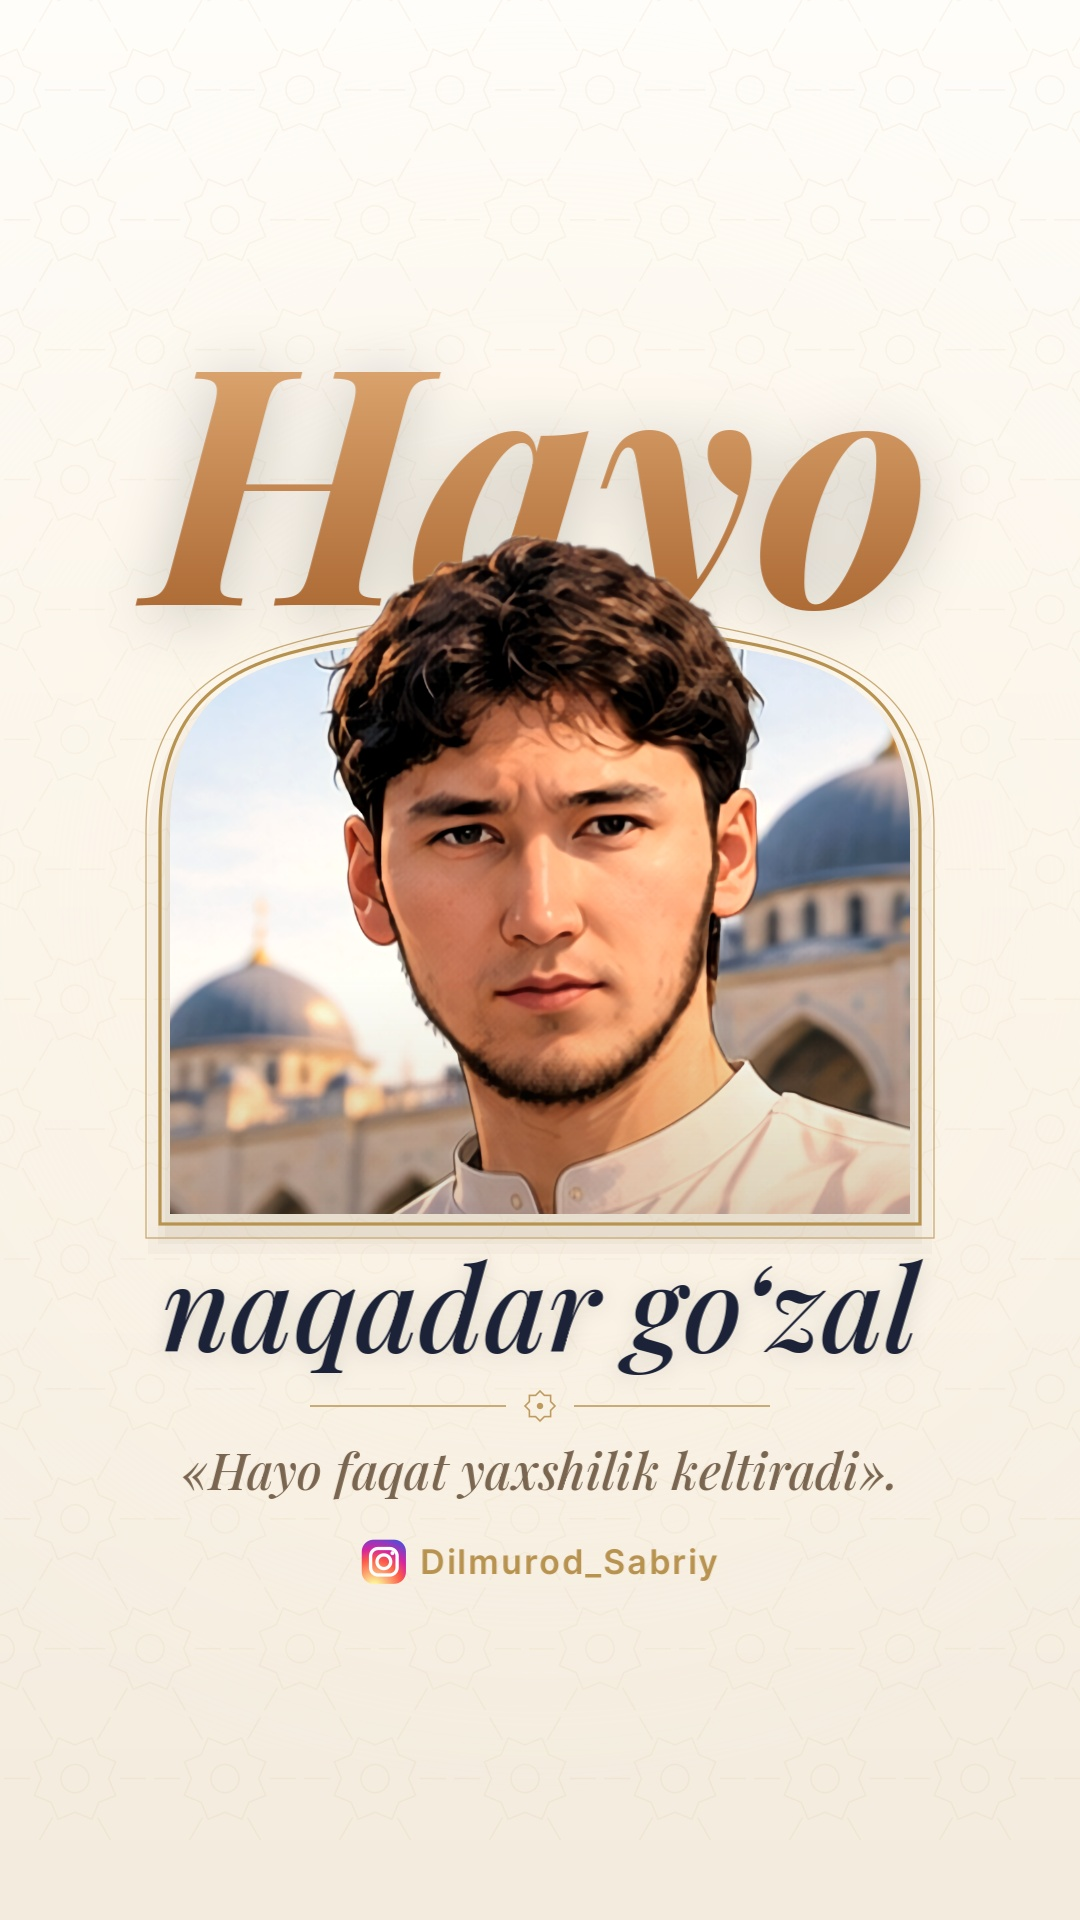
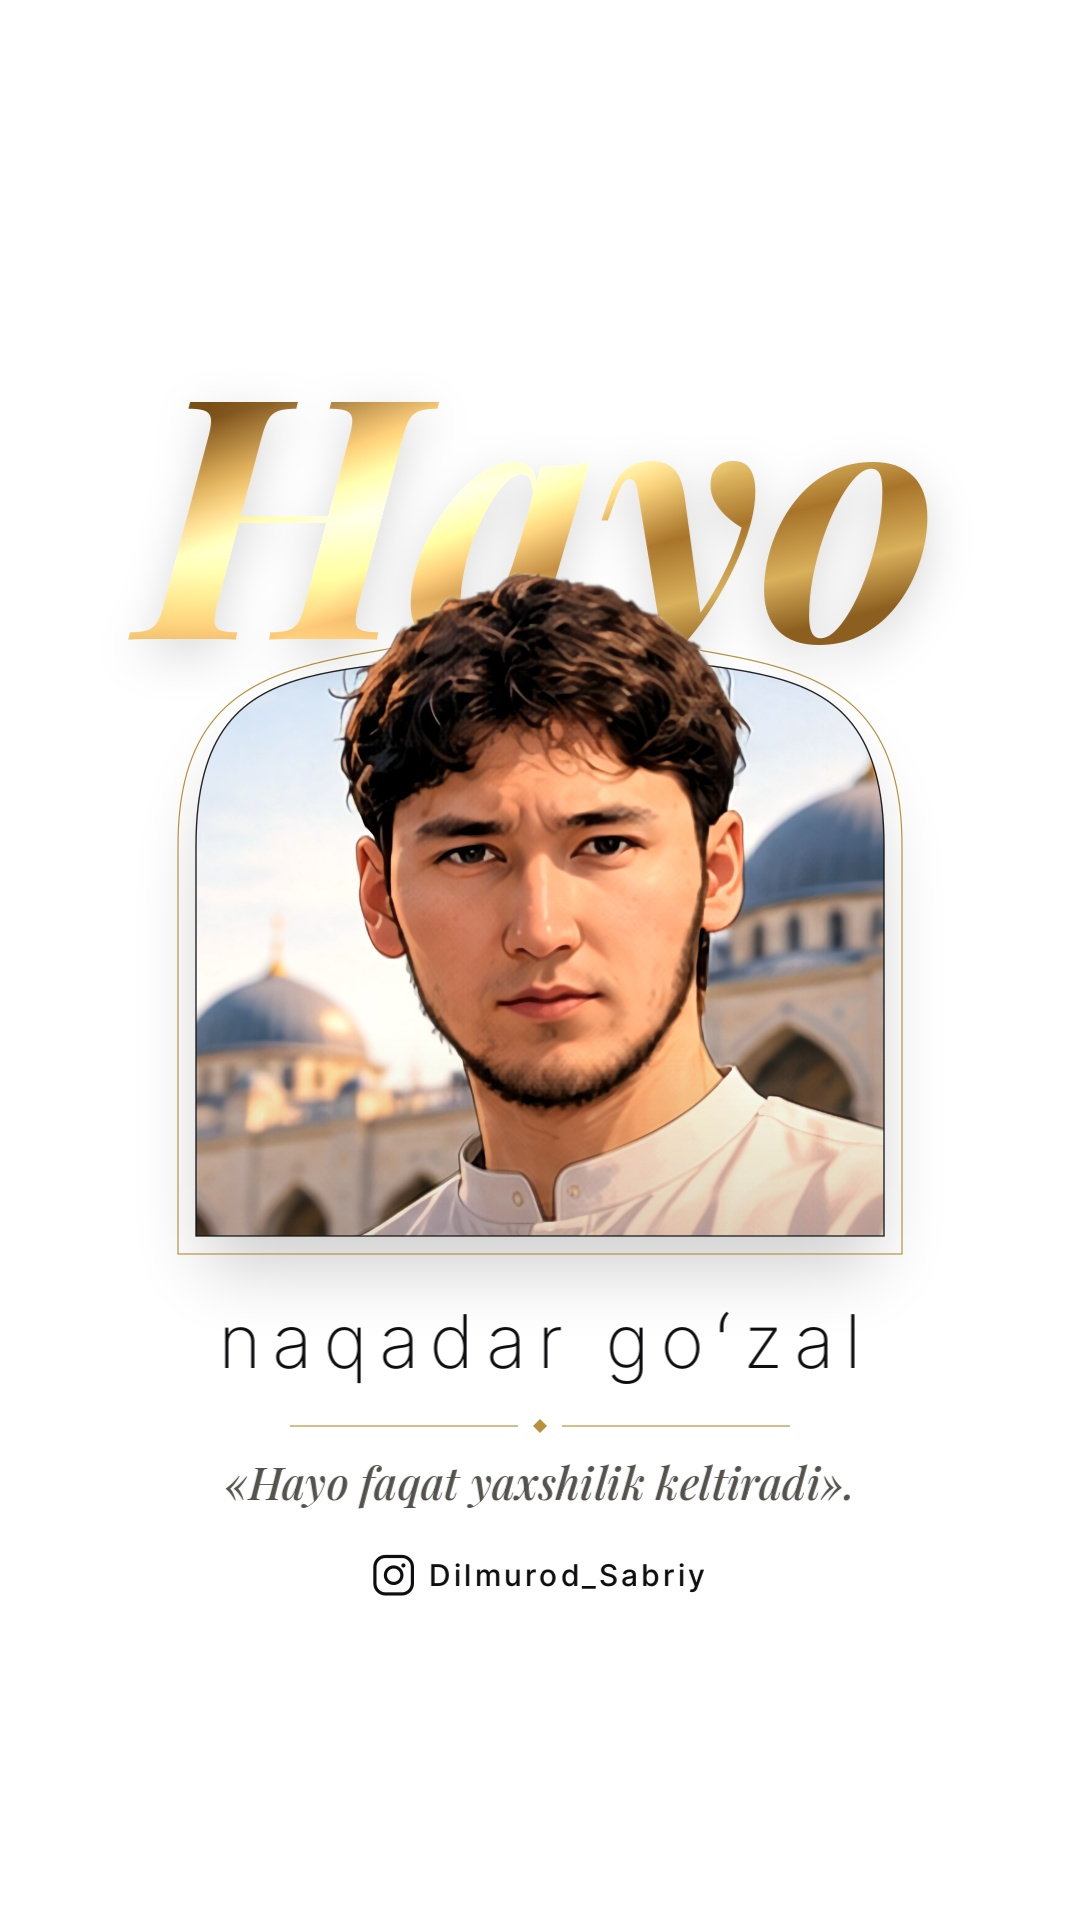
Cover: sof oq fon, zamonaviy-luxury uslub (oltin foil sarlavha)
Claude-Session: https://claude.ai/code/session_018LrpBgy8Hvn4QmYzaXwYNb

diff --git a/projects/hayo_cover.py b/projects/hayo_cover.py
@@ -1,11 +1,12 @@
 """
-"Hayo naqadar goʻzal" — Reels uchun oq (fil suyagi) fonli cover, 1080×1920.
+"Hayo naqadar goʻzal" — Reels uchun toza OQ fonli, zamonaviy-luxury cover, 1080×1920.
 
     python3 projects/hayo_cover.py            # -> output/hayo_naqadar_gozal_cover.png/.jpg
 
-Kompozitsiya: oq fon + och oltin naqsh; mehrob ravog'i ichida portret, boshi ravoqdan
-chiqib turadi; ulkan "Hayo" so'zi boshi ORTIDA (video hook'i bilan bir uslub).
-Muhim qismlar markaziy 1080×1440 (profil to'ri 3:4 kesimi) ichida: y 240..1680.
+Uslub: sof oq (#ffffff) fon, ko'p bo'sh joy; oltin varaq (foil) effektli ulkan "Hayo"
+portretning boshi ORTIDA; ingichka qora/oltin chiziqlar; keng harf oralig'idagi yupqa
+sans-serif + yuqori kontrastli serif. Muhim qismlar markaziy 1080×1440 (profil to'ri 3:4
+kesimi) ichida: y 240..1680.
 """
 import math
 import os
@@ -20,98 +21,138 @@ sys.path.insert(0, ROOT)
 import render as R  # noqa: E402
 
 P = R.load_project(os.path.join(HERE, "hayo_naqadar_gozal.py"))
-from render import (W, H, hx, text, tw, add_glow, glow, arch_path, instagram_icon,  # noqa: E402
-                    paint_pic, Pic, HANDLE)
+from render import (W, H, hx, text, tw, sprite, arch_path, paint_pic, round_rect,  # noqa: E402
+                    draw_sprite, HANDLE, BLACK)
 
-IVORY_T, IVORY_B = hx("#fffdf9"), hx("#f3ebdd")
-INK = hx("#1c2238")
-WARM_GRAY = hx("#7a6650")
-GOLD_DK = (hx("#d9b46a"), hx("#94692a"))       # readable gold on white
-GOLD_LINE = hx("#b8924f")
-HAYO_G = (hx("#e7b27c"), hx("#a8642f"))         # warm gold-blush for the big word
+INK = hx("#0e0e10")
+GRAY = hx("#55524d")
+GOLD_HAIR = hx("#b8913f")
+FOIL = ((0.00, "#7a4f16"), (0.18, "#c99a45"), (0.38, "#f7e3a3"), (0.50, "#e2bb65"),
+        (0.66, "#a8742a"), (0.84, "#d9b05c"), (1.00, "#8c5e1f"))
 
-ARCH = (170, 910, 830, 606, 1214)  # x0, x1, spring, apex, bottom
+ARCH = (196, 884, 846, 628, 1236)  # x0, x1, spring, apex, bottom
+
+
+def foil_text(ctx, s, fkey, size, cx, baseline, shadow=True):
+    """Text filled with a metallic gold-foil gradient (sprite used as a mask)."""
+    sp = sprite(s, fkey, size, (1, 1, 1, 1))
+    ox = cx - sp.w / 2
+    x0, y0 = ox - sp.pad, baseline - sp.asc - sp.pad
+    if shadow:
+        sh = sprite(s, fkey, size, BLACK, 0.0, None, 22)
+        draw_sprite(ctx, sh, cx, baseline + 14, 0.16, 1.0, "c")
+    top = baseline - sp.asc * 0.80
+    g = cairo.LinearGradient(cx - 40, top, cx + 40, baseline + sp.desc * 0.5)
+    for off, c in FOIL:
+        g.add_color_stop_rgba(off, *hx(c)[:3], 1)
+    ctx.set_source(g)
+    ctx.mask_surface(sp.surf, x0, y0)
+    # fine specular sweep across the letters
+    g2 = cairo.LinearGradient(ox + sp.w * 0.15, top, ox + sp.w * 0.55, baseline)
+    g2.add_color_stop_rgba(0.0, 1, 1, 1, 0)
+    g2.add_color_stop_rgba(0.5, 1, 0.98, 0.9, 0.35)
+    g2.add_color_stop_rgba(1.0, 1, 1, 1, 0)
+    ctx.save()
+    ctx.set_operator(cairo.OPERATOR_ADD)
+    ctx.set_source(g2)
+    ctx.mask_surface(sp.surf, x0, y0)
+    ctx.restore()
+
+
+def ig_mono(ctx, cx, cy, s, color=INK):
+    """Monochrome Instagram glyph (luxury, single colour)."""
+    x0, y0 = cx - s / 2, cy - s / 2
+    ctx.set_source_rgba(*color[:3], 1)
+    ctx.set_line_width(s * 0.085)
+    round_rect(ctx, x0, y0, s, s, s * 0.28)
+    ctx.stroke()
+    ctx.arc(cx, cy, s * 0.22, 0, 2 * math.pi)
+    ctx.stroke()
+    ctx.arc(x0 + s * 0.76, y0 + s * 0.24, s * 0.055, 0, 2 * math.pi)
+    ctx.fill()
+
+
+def diamond(ctx, x, y, r):
+    ctx.move_to(x, y - r)
+    ctx.line_to(x + r, y)
+    ctx.line_to(x, y + r)
+    ctx.line_to(x - r, y)
+    ctx.close_path()
 
 
 def main():
     surf = cairo.ImageSurface(cairo.FORMAT_ARGB32, W, H)
     ctx = cairo.Context(surf)
-    # background -------------------------------------------------------------
-    g = cairo.LinearGradient(0, 0, 0, H)
-    g.add_color_stop_rgba(0, *IVORY_T)
-    g.add_color_stop_rgba(1, *IVORY_B)
-    ctx.set_source(g)
+    ctx.set_source_rgba(1, 1, 1, 1)
     ctx.paint()
-    lat = P.lattice_surface(color=hx("#c9a86a"), step=150, R_=44)
-    ctx.set_source_surface(lat, -75, -40)
-    ctx.paint_with_alpha(0.10)
-    glow(ctx, 540, 900, 900, hx("#fff4e2"), 0.9)
     x0, x1, sp, ap, bt = ARCH
-    # soft shadow under the arch
-    for k, a in ((22, 0.03), (12, 0.04), (5, 0.05)):
-        ctx.save()
-        ctx.translate(0, 18)
-        arch_path(ctx, x0 - k, x1 + k, sp, ap - k, bt + k)
-        ctx.set_source_rgba(0.35, 0.25, 0.12, a)
-        ctx.fill()
-        ctx.restore()
-    # portrait inside the arch ----------------------------------------------
+    # floating-card shadow: blurred arch silhouette (neutral grey)
+    from PIL import Image, ImageFilter
+    ms = cairo.ImageSurface(cairo.FORMAT_A8, W, H)
+    mc = cairo.Context(ms)
+    arch_path(mc, x0 + 10, x1 - 10, sp + 20, ap + 20, bt)
+    mc.fill()
+    ms.flush()
+    st = ms.get_stride()
+    m = np.ndarray((H, st), np.uint8, ms.get_data())[:, :W].copy()
+    m = np.asarray(Image.fromarray(m).filter(ImageFilter.GaussianBlur(34)))
+    shade = R.Pic(np.zeros((H, W, 3), np.uint8), (m * 0.20).astype(np.uint8))
+    paint_pic(ctx, shade, 1.0, 0, 30)
+    # portrait inside the arch
     pic, cut = P.G["p0x"], P.G["p0cut"]
-    s = 0.66
+    s = 0.62
     eyes = (1110, 480 + P.EXT0)
-    tx, ty = 540 - eyes[0] * s, 826 - eyes[1] * s
+    tx, ty = 540 - eyes[0] * s, 846 - eyes[1] * s
     ctx.save()
     arch_path(ctx, x0, x1, sp, ap, bt)
     ctx.clip()
     paint_pic(ctx, pic, s, tx, ty)
-    R.vgrad(ctx, bt - 240, bt, 0, 0.18, hx("#3a2a14"))
+    R.vgrad(ctx, bt - 200, bt, 0, 0.12, (0, 0, 0))
     ctx.restore()
-    # gold arch outline (double) + finial star
-    for grow, wdt, a in ((10, 3.2, 1.0), (24, 1.3, 0.75)):
-        arch_path(ctx, x0 - grow, x1 + grow, sp, ap - grow, bt + grow)
-        ctx.set_source_rgba(*GOLD_LINE[:3], a)
-        ctx.set_line_width(wdt)
-        ctx.stroke()
-    # giant "Hayo" behind the head -------------------------------------------
-    text(ctx, "Hayo", "serif_it_b", 330, hx("#c98a52"), 540, 606, align="c", grad=HAYO_G,
-         shadow=30, shadow_a=0.22)
-    # the head breaks out of the arch (cutout, only above the spring line)
+    # hairline frames: thin black on the photo edge, gold offset outside
+    arch_path(ctx, x0, x1, sp, ap, bt)
+    ctx.set_source_rgba(*INK[:3], 0.9)
+    ctx.set_line_width(1.4)
+    ctx.stroke()
+    arch_path(ctx, x0 - 18, x1 + 18, sp, ap - 18, bt + 18)
+    ctx.set_source_rgba(*GOLD_HAIR[:3], 1)
+    ctx.set_line_width(1.2)
+    ctx.stroke()
+    # giant gold-foil "Hayo" behind the head
+    foil_text(ctx, "Hayo", "serif_it_b", 336, 540, 640)
+    # head breaks out of the arch
     ctx.save()
     ctx.rectangle(0, 0, W, sp - 60)
     ctx.clip()
     ctx.push_group()
-    paint_pic(ctx, cut, s, tx + 6, ty + 10)
-    sh = ctx.pop_group()
-    ctx.set_source_rgba(0.25, 0.16, 0.06, 0.18)
-    ctx.mask(sh)
+    paint_pic(ctx, cut, s, tx + 5, ty + 9)
+    shd = ctx.pop_group()
+    ctx.set_source_rgba(0, 0, 0, 0.12)
+    ctx.mask(shd)
     paint_pic(ctx, cut, s, tx, ty)
     ctx.restore()
-    # title + subtitle --------------------------------------------------------
-    text(ctx, "naqadar goʻzal", "serif_it", 118, INK, 540, 1352, align="c", shadow=10,
-         shadow_a=0.12)
-    # ornament divider
-    yd = 1406
-    ctx.set_line_width(1.6)
-    ctx.set_source_rgba(*GOLD_LINE[:3], 0.9)
+    # typography below ---------------------------------------------------------
+    text(ctx, "naqadar goʻzal", "xlight", 74, INK, 540, 1368, align="c", tracking=11)
+    yd = 1426
+    ctx.set_source_rgba(*GOLD_HAIR[:3], 1)
+    ctx.set_line_width(1.2)
     for sd in (-1, 1):
-        ctx.move_to(540 + sd * 34, yd)
-        ctx.line_to(540 + sd * 230, yd)
+        ctx.move_to(540 + sd * 22, yd)
+        ctx.line_to(540 + sd * 250, yd)
     ctx.stroke()
-    P.star8_path(ctx, 540, yd, 15)
-    ctx.stroke()
-    ctx.arc(540, yd, 3.2, 0, 2 * math.pi)
+    diamond(ctx, 540, yd, 7)
     ctx.fill()
     hadis = "«Hayo faqat yaxshilik keltiradi»."
-    text(ctx, hadis, "serif_it", 50, WARM_GRAY, 540, 1490, align="c")
+    text(ctx, hadis, "serif_it", 44, GRAY, 540, 1500, align="c")
     # Instagram + name
-    size = 34
-    ic = size * 1.3
-    gap = size * 0.42
-    total = ic + gap + tw(HANDLE, "semi", size, 2)
+    size = 30
+    ic = size * 1.25
+    gap = size * 0.55
+    total = ic + gap + tw(HANDLE, "med", size, 3)
     hx0 = 540 - total / 2
-    yb = 1574
-    instagram_icon(ctx, hx0 + ic / 2, yb - size * 0.36, ic, 1.0)
-    text(ctx, HANDLE, "semi", size, GOLD_LINE, hx0 + ic + gap, yb, tracking=2)
+    yb = 1586
+    ig_mono(ctx, hx0 + ic / 2, yb - size * 0.36, ic)
+    text(ctx, HANDLE, "med", size, INK, hx0 + ic + gap, yb, tracking=3)
     surf.flush()
     out = os.path.join(ROOT, "output", "hayo_naqadar_gozal_cover")
     surf.write_to_png(out + ".png")
